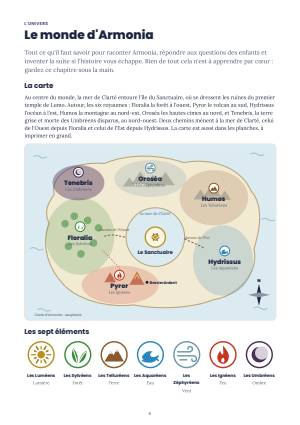
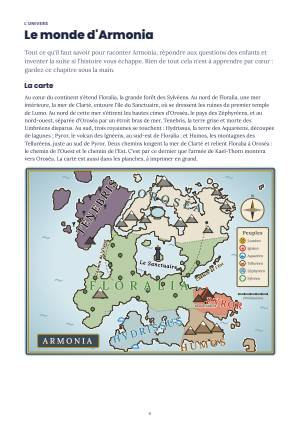
Les Olympiades d'anniversaire deviennent Le défi des champions, avec redirections
Claude-Session: https://claude.ai/code/session_01NLfQF6y32HhKhvv1yWYVzF

diff --git a/build.py b/build.py
@@ -52,6 +52,8 @@ REDIRECTIONS = {
     "/idees/paques/chasse-aux-oeufs-des-couleurs/": "/fetes/paques/chasse-aux-oeufs-des-couleurs/",
     "/idees/paques/voleurs-de-nids/": "/fetes/paques/voleurs-de-nids/",
     "/idees/fete-de-fin-d-annee/": "/kermesse/",
+    "/boutique/olympiades-anniversaire/": "/boutique/defi-des-champions/",
+    "/blog/olympiades-anniversaire-maison/": "/blog/defi-des-champions-anniversaire-maison/",
 }
 
 MOIS = ["janvier", "février", "mars", "avril", "mai", "juin", "juillet",

diff --git a/contenu/blog/2026-10-13-defi-des-champions-anniversaire-maison.md b/contenu/blog/2026-10-13-defi-des-champions-anniversaire-maison.md
@@ -1,15 +1,15 @@
 ---
-titre: "Olympiades d'anniversaire à la maison : 8 épreuves pour les 6-12 ans"
-description: "Organiser des Olympiades d'anniversaire à la maison : le déroulé minute par minute, 8 épreuves avec le matériel de la maison et les astuces d'un directeur d'animation."
-chapo: "Des équipes, un défilé, des épreuves et une remise de médailles : les Olympiades plaisent à tous les enfants de 6 à 12 ans. Voici comment les organiser dans un salon ou un jardin, avec ce que vous avez déjà chez vous."
+titre: "Un défi des champions d'anniversaire à la maison : 8 épreuves pour les 6-12 ans"
+description: "Organiser un anniversaire sportif à la maison : le déroulé minute par minute, 8 épreuves avec le matériel de la maison et les astuces d'un directeur d'animation."
+chapo: "Des équipes, un défilé, des épreuves et une remise de médailles : le défi des champions plaît à tous les enfants de 6 à 12 ans. Voici comment l'organiser dans un salon ou un jardin, avec ce que vous avez déjà chez vous."
 date: 2026-10-13
 ages: [6-8-ans, 9-12-ans]
 fetes: []
 univers: [anniversaires]
-kit: olympiades-anniversaire
+kit: defi-des-champions
 ---
 
-En centre de loisirs, les Olympiades sont le grand jeu qui marche à tous les coups. Les enfants adorent porter les couleurs d'une équipe, défiler et recevoir une médaille. À la maison, la recette fonctionne aussi bien, à condition de bien préparer trois choses : les équipes, le timing et le score.
+En centre de loisirs, les grands défis sportifs par équipes sont le jeu qui marche à tous les coups. Les enfants adorent porter les couleurs d'une équipe, défiler et recevoir une médaille. À la maison, la recette fonctionne aussi bien, à condition de bien préparer trois choses : les équipes, le timing et le score.
 
 ## Le déroulé en 1 h 30
 
@@ -61,4 +61,4 @@ Au moment de la remise des médailles, gardez une distinction pour chaque équip
 - **Des temps morts.** Préparez toutes les épreuves avant l'arrivée des invités : la pause pendant qu'un adulte cherche des gobelets suffit à disperser le groupe.
 - **Un score secret.** Affichez la feuille de score au mur et mettez-la à jour après chaque épreuve : le suspense fait partie du jeu.
 
-Les Olympiades demandent une soirée de préparation, mais elles laissent un souvenir que les enfants racontent longtemps. Pour gagner cette soirée, notre kit contient les fiches de toutes les épreuves, la feuille de score, les fanions et les diplômes, prêts à imprimer.
+Un défi des champions demande une soirée de préparation, mais il laisse un souvenir que les enfants racontent longtemps. Pour gagner cette soirée, notre kit contient les fiches de toutes les épreuves, la feuille de score, les fanions et les diplômes, prêts à imprimer.

diff --git a/contenu/blog/2026-10-27-organiser-anniversaire-enfant-maison.md b/contenu/blog/2026-10-27-organiser-anniversaire-enfant-maison.md
@@ -6,7 +6,7 @@ date: 2026-10-27
 ages: [3-5-ans, 6-8-ans, 9-12-ans]
 fetes: []
 univers: [anniversaires]
-kit: olympiades-anniversaire
+kit: defi-des-champions
 ---
 
 Quand je prépare une fête avec des enfants, en accueil de loisirs ou en famille, je me pose toujours les mêmes questions dans le même ordre : pour combien d'enfants, combien de temps, avec quelle histoire, et que se passe-t-il à chaque minute. Les idées de jeux viennent en dernier. C'est cet ordre qui fait la différence entre une fête qui tient et une fête qui déborde.
@@ -29,13 +29,13 @@ Une fête trop longue se termine mal : les enfants fatiguent, l'excitation monte
 
 ## Choisir un fil rouge
 
-Un anniversaire réussi raconte une histoire : une chasse au trésor de pirates, des Olympiades, une enquête, un safari. Le thème n'est pas qu'une décoration. Il donne un sens à chaque jeu (« pour récupérer le morceau de carte, il faut traverser la mer aux requins »), et c'est ce sens qui tient les enfants ensemble pendant une heure.
+Un anniversaire réussi raconte une histoire : une chasse au trésor de pirates, un défi sportif, une enquête, un safari. Le thème n'est pas qu'une décoration. Il donne un sens à chaque jeu (« pour récupérer le morceau de carte, il faut traverser la mer aux requins »), et c'est ce sens qui tient les enfants ensemble pendant une heure.
 
 Choisissez le fil rouge avec votre enfant, selon son âge :
 
 - **3-5 ans** : un univers simple et rassurant, des animaux à rencontrer, aucun perdant. Notre [safari des petits explorateurs](/boutique/safari-petits-explorateurs/) est construit sur ce principe.
 - **5-9 ans** : une aventure avec une récompense à la fin, comme une [chasse au trésor de pirates](/boutique/chasse-tresor-pirates/) où chaque épreuve rapporte un morceau de carte.
-- **6-12 ans** : des défis par équipes, du score, un podium. Les [Olympiades d'anniversaire](/boutique/olympiades-anniversaire/) marchent à tous les coups.
+- **6-12 ans** : des défis par équipes, du score, un podium. Les [Défi des champions](/boutique/defi-des-champions/) marchent à tous les coups.
 - **8-12 ans** : un vrai problème à résoudre, avec des indices et de la logique, comme [l'enquête du gâteau disparu](/boutique/enquete-gateau-disparu/).
 
 ## Le déroulé type

diff --git a/docs/ECRIRE-UN-ARTICLE.md b/docs/ECRIRE-UN-ARTICLE.md
@@ -21,7 +21,7 @@ date: 2026-10-20
 ages: [6-8-ans]
 fetes: [toussaint]
 univers: [anniversaires]
-kit: olympiades-anniversaire
+kit: defi-des-champions
 ---
 ```
 
@@ -39,7 +39,7 @@ kit: olympiades-anniversaire
 - 800 à 1 300 mots. Un titre qui reprend la recherche des parents.
 - Des intertitres `##` qui répondent aux questions qu'ils se posent : durée, nombre d'enfants, matériel, âge, erreurs à éviter.
 - Au moins un élément concret de directeur d'animation : déroulé minuté, règle en une phrase, matériel de la maison, adaptation par âge.
-- Lien vers une page du site quand c'est utile, par exemple `[nos jeux de Noël](/fetes/noel/)` ou `[le kit des Olympiades](/boutique/olympiades-anniversaire/)`.
+- Lien vers une page du site quand c'est utile, par exemple `[nos jeux de Noël](/fetes/noel/)` ou `[le kit du défi des champions](/boutique/defi-des-champions/)`.
 - Une seule fin commerciale, discrète : le dernier paragraphe peut présenter le kit associé.
 - Jamais de nom, logo, photo ou document de la structure où travaille l'auteur. Jamais de photo d'enfant.
 - Pas de copie d'autres sites. Les idées classiques (chasse au trésor, course en sac) sont réécrites avec nos propres règles.

diff --git a/docs/REFERENCEMENT.md b/docs/REFERENCEMENT.md
@@ -34,7 +34,7 @@ Le calendrier suit les saisons, avec 4 à 6 semaines d'avance sur les recherches
 | Novembre, décembre | Noël en famille, arbre de Noël du CSE, jeux coopératifs |
 | Janvier, février | Carnaval, jeux calmes, galette des rois, anniversaires d'hiver |
 | Mars, avril | Pâques et chasse aux œufs, grands jeux de printemps |
-| Mai, juin | Kermesse et fête d'école, olympiades, jeux d'eau |
+| Mai, juin | Kermesse et fête d'école, journées sportives, jeux d'eau |
 | Juillet, août | Grands jeux d'été, colonies, anniversaires au jardin |
 
 ### 3. La technique (déjà en place)
